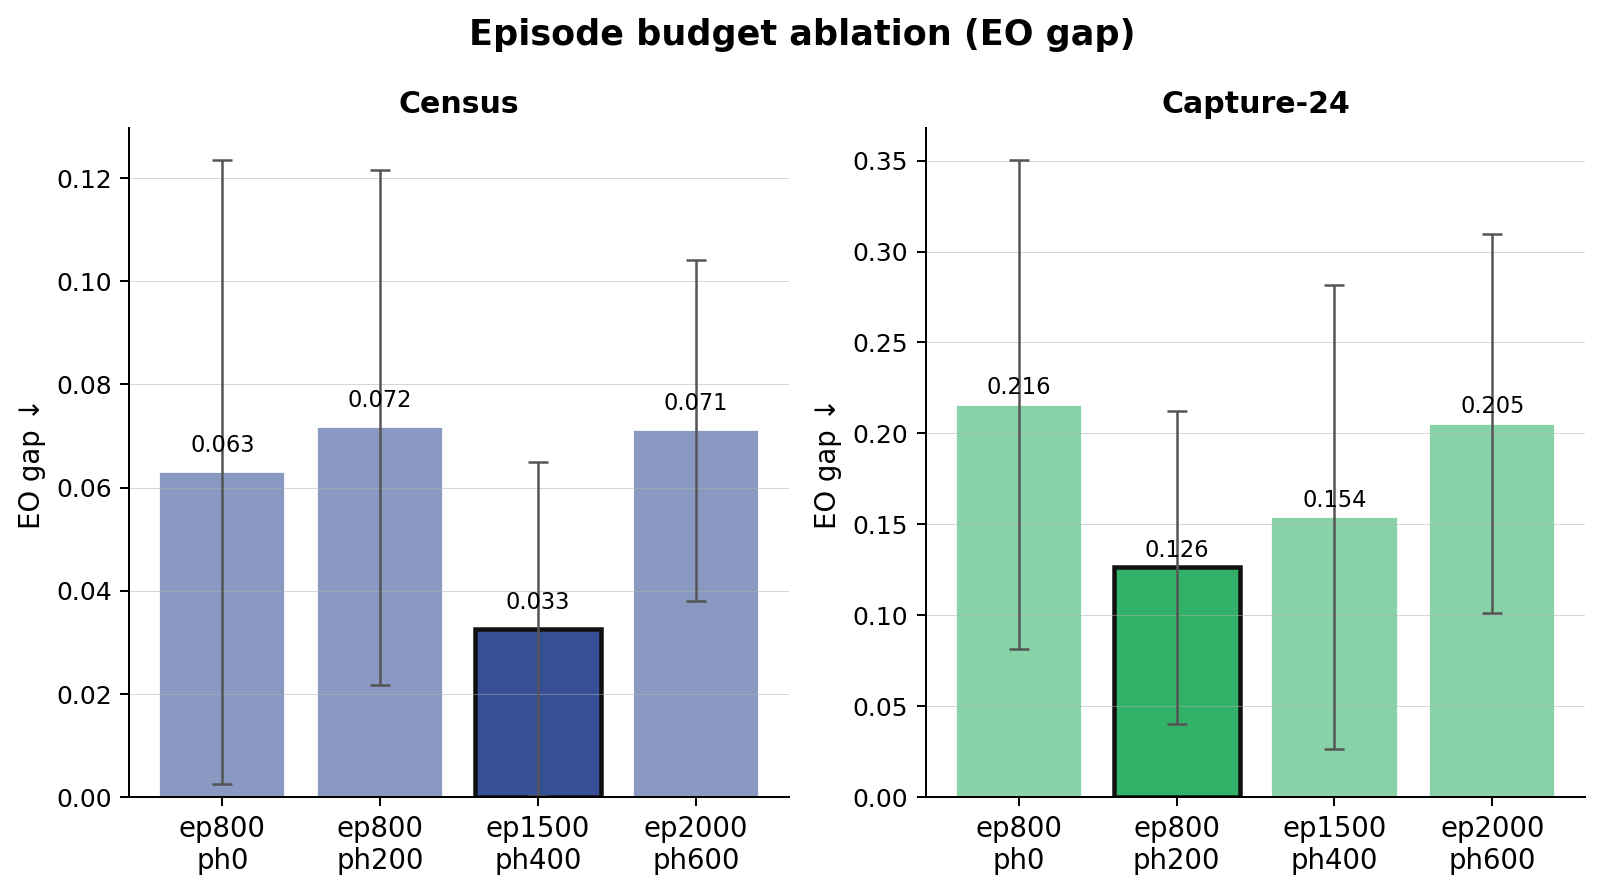
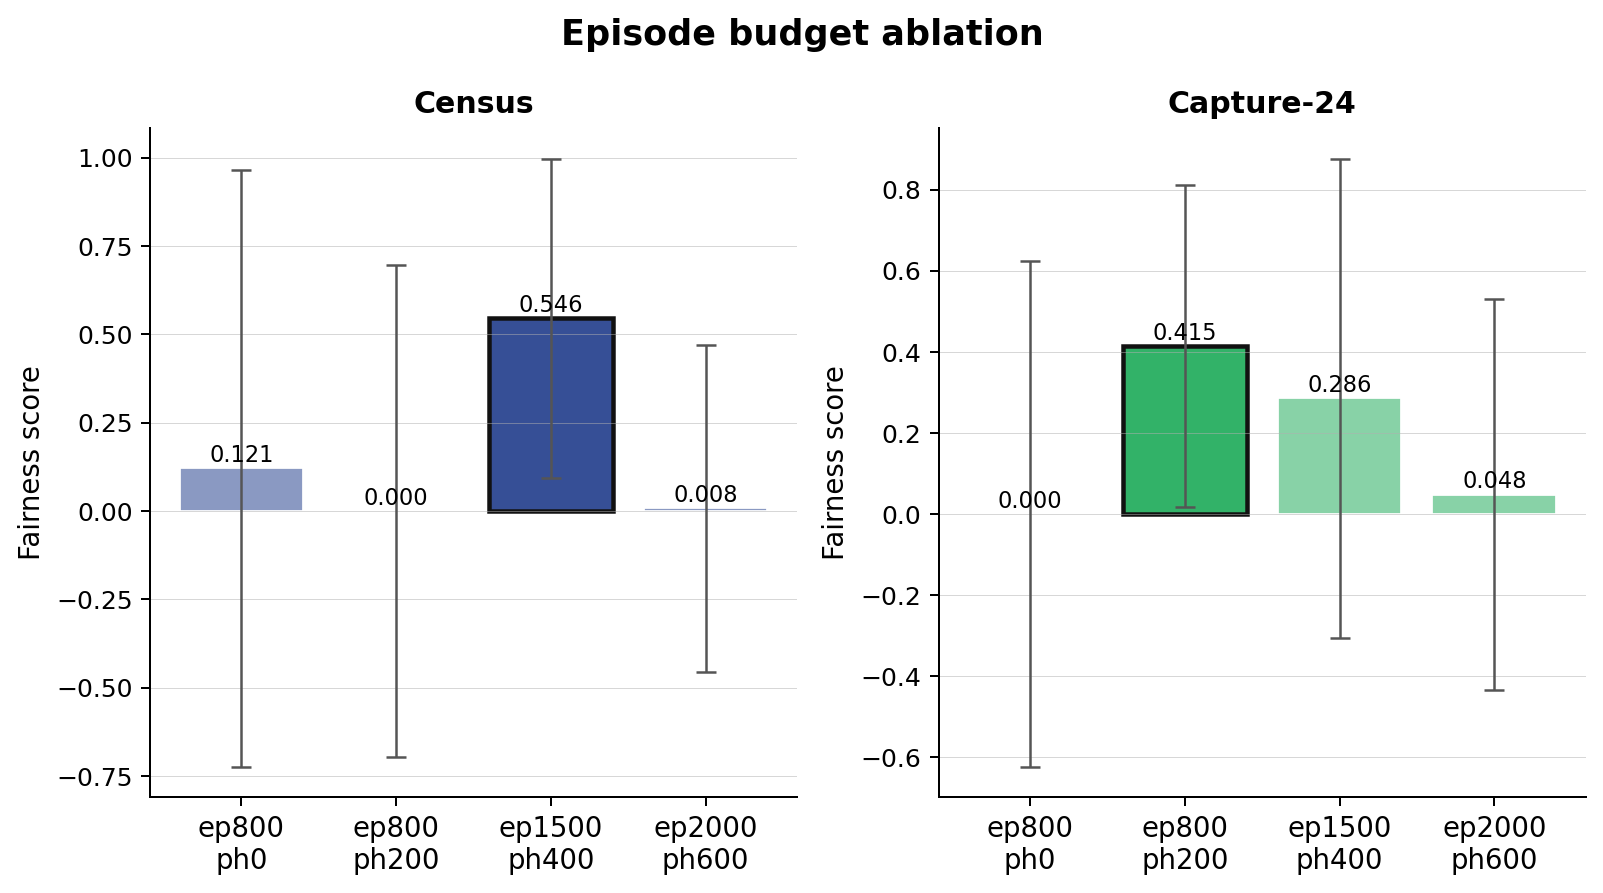
Update ablation figures to census-only with fairness score (FS) metric
- Add census-only (1-dataset) variants for all 5 ablation figures
- Apply x' = 1 - x/max(X) transformation: EO gap -> fairness score (higher = better)
- Remove "(EO gap)" from all ablation figure suptitles
- Remove y-axis direction arrow; y-label is now "Fairness score"
- Delta ablation: spell out "Delta scale" instead of Greek symbol
- FFNN ablation: spell out "Beta epochs" instead of symbol
- Episode census figure: show only ep1500 and ep2000, remove majority-recovery (ph) labels
- Journal_Paper_v5.tex: update table headers EO->FS, recompute all values with FS formula, update episode figure include to census-only, update ablation intro line

diff --git a/paper_figures_v3/generate_ablation_figures_v2.py b/paper_figures_v3/generate_ablation_figures_v2.py
@@ -33,6 +33,7 @@ EXPECTED_SEEDS = {
 DS_LABELS  = {"census": "Census", "compas": "COMPAS*", "capture24": "Capture-24"}
 DATASETS_3 = ["census", "compas", "capture24"]
 DATASETS_2 = ["census", "capture24"]
+DATASETS_1 = ["census"]
 
 DS_COLORS = {
     "census":    "#2b4590",
@@ -116,6 +117,16 @@ def get_auc(df): return stats(df, "beta_roc_auc")
 def get_alpha_eo(df): return stats(df, "alpha_eod_max_diff")
 
 
+def transform_eo(means, stds):
+    """Convert EO gap to fairness score: x' = 1 - x/max(X). Higher is better."""
+    means = np.array([float(m) for m in means])
+    stds  = np.array([float(s) for s in stds])
+    max_x = np.nanmax(means)
+    if max_x == 0:
+        return means.tolist(), stds.tolist()
+    return (1.0 - means / max_x).tolist(), (stds / max_x).tolist()
+
+
 def save_fig(name):
     paths = [os.path.join(OUT_DIR, name), os.path.join(FIG_DIR, name)]
     for p in paths:
@@ -124,7 +135,7 @@ def save_fig(name):
 
 
 def make_bar_ax(ax, labels, means, stds, colors, hatches=None,
-                ylabel="EO gap ↓", title="", fontsize_labels=11,
+                ylabel="Fairness score", title="", fontsize_labels=11,
                 fontsize_ticks=10, fontsize_title=12):
     x = np.arange(len(labels))
     bars = ax.bar(x, means, yerr=stds, capsize=4,
@@ -189,15 +200,27 @@ EP_KEYS = {
         ("capture24_ep2000ph600", "ep2000\nph600"),
     ],
 }
+# 2-bar census-only variant: ep1500 and ep2000 only, majority recovery labels removed
+EP_KEYS_2BAR = {
+    "census": [
+        ("census_ep1500ph400", "ep 1500"),
+        ("census_ep2000ph600", "ep 2000"),
+    ],
+}
 EP_PH_KEYS = ["ep800ph0", "ep800ph200", "ep1500ph400", "ep2000ph600"]
-EP_CHOSEN  = {"census": 2, "capture24": 1}
+EP_CHOSEN      = {"census": 2, "capture24": 1}
+EP_CHOSEN_2BAR = {"census": 0}
 
 
-def _make_ep_eo_fig(datasets, ncols, figsize, fname, show_compas_placeholder):
+def _make_ep_eo_fig(datasets, ncols, figsize, fname, show_compas_placeholder,
+                    ep_keys_override=None, ep_chosen_override=None):
     fig, axes = plt.subplots(1, ncols, figsize=figsize)
     if ncols == 1:
         axes = [axes]
-    fig.suptitle("Episode budget ablation (EO gap)", fontsize=14, fontweight="bold")
+    fig.suptitle("Episode budget ablation", fontsize=14, fontweight="bold")
+
+    ep_keys_use   = ep_keys_override   if ep_keys_override   is not None else EP_KEYS
+    ep_chosen_use = ep_chosen_override if ep_chosen_override is not None else EP_CHOSEN
 
     for ci, ds in enumerate(datasets):
         ax = axes[ci]
@@ -208,11 +231,11 @@ def _make_ep_eo_fig(datasets, ncols, figsize, fname, show_compas_placeholder):
 
         seeds  = EXPECTED_SEEDS[ds]
         col    = DS_COLORS[ds]
-        chosen = EP_CHOSEN.get(ds, 2)
+        chosen = ep_chosen_use.get(ds, 0)
 
         means, stds, labels = [], [], []
 
-        for ki, (key, lbl) in enumerate(EP_KEYS.get(ds, [])):
+        for ki, (key, lbl) in enumerate(ep_keys_use.get(ds, [])):
             if ds == "compas":
                 ph_key = EP_PH_KEYS[ki]
                 m, s = COMPAS_EP_PH[ph_key]["eo"]
@@ -226,14 +249,14 @@ def _make_ep_eo_fig(datasets, ncols, figsize, fname, show_compas_placeholder):
             means.append(m); stds.append(s); labels.append(lbl)
 
         if ds == "compas":
-            # Use placeholder EP_KEYS for COMPAS
             labels = ["ep800\nph0", "ep800\nph200", "ep1500\nph400", "ep2000\nph600"]
+
+        means, stds = transform_eo(means, stds)
 
         base_rgb = matplotlib.colors.to_rgb(col)
         colors = [base_rgb + (CHOSEN_ALPHA if i == chosen else OTHER_ALPHA,)
                   for i in range(len(labels))]
-        bars = make_bar_ax(ax, labels, means, stds, colors,
-                           ylabel="EO gap ↓", title=DS_LABELS[ds])
+        bars = make_bar_ax(ax, labels, means, stds, colors, title=DS_LABELS[ds])
         bars[chosen].set_edgecolor("#111111")
         bars[chosen].set_linewidth(1.8)
         label_bars(ax, bars, means)
@@ -254,6 +277,13 @@ _make_ep_eo_fig(DATASETS_3, 3, (13, 5),
 _make_ep_eo_fig(DATASETS_2, 2, (9, 5),
                 "fig_episode_ablation_eo_nodataset.png",
                 show_compas_placeholder=False)
+
+# 1-dataset (census only, ep1500 and ep2000 only)
+_make_ep_eo_fig(DATASETS_1, 1, (5, 5),
+                "fig_episode_ablation_census.png",
+                show_compas_placeholder=False,
+                ep_keys_override=EP_KEYS_2BAR,
+                ep_chosen_override=EP_CHOSEN_2BAR)
 
 
 # ─────────────────────────────────────────────────────────────────────────────
@@ -283,7 +313,7 @@ def _make_delta_fig(datasets, ncols, figsize, fname):
     fig, axes = plt.subplots(1, ncols, figsize=figsize)
     if ncols == 1:
         axes = [axes]
-    fig.suptitle("Delta scale ablation (EO gap)", fontsize=14, fontweight="bold")
+    fig.suptitle("Delta scale ablation", fontsize=14, fontweight="bold")
 
     for ci, ds in enumerate(datasets):
         seeds = EXPECTED_SEEDS[ds]
@@ -304,15 +334,16 @@ def _make_delta_fig(datasets, ncols, figsize, fname):
                     print(f"  MISSING: delta {lbl} {ds}")
             means.append(m); stds.append(s)
 
+        means, stds = transform_eo(means, stds)
+
         base_rgb = matplotlib.colors.to_rgb(col)
         colors   = [base_rgb + (CHOSEN_ALPHA if i == DELTA_CHOSEN else OTHER_ALPHA,)
                     for i in range(len(DELTA_LABELS))]
-        bars = make_bar_ax(ax, DELTA_LABELS, means, stds, colors,
-                           ylabel="EO gap ↓", title=DS_LABELS[ds])
+        bars = make_bar_ax(ax, DELTA_LABELS, means, stds, colors, title=DS_LABELS[ds])
         bars[DELTA_CHOSEN].set_edgecolor("#111111")
         bars[DELTA_CHOSEN].set_linewidth(1.8)
         label_bars(ax, bars, means)
-        ax.set_xlabel("δ scale", fontsize=11)
+        ax.set_xlabel("Delta scale", fontsize=11)
 
     if "compas" in datasets:
         pending_note(fig)
@@ -323,6 +354,7 @@ def _make_delta_fig(datasets, ncols, figsize, fname):
 
 _make_delta_fig(DATASETS_3, 3, (13, 5),   "fig_delta_ablation_v3_large.png")
 _make_delta_fig(DATASETS_2, 2, (9,  5),   "fig_delta_ablation_nodataset.png")
+_make_delta_fig(DATASETS_1, 1, (5,  5),   "fig_delta_ablation_census.png")
 
 
 # ─────────────────────────────────────────────────────────────────────────────
@@ -340,7 +372,7 @@ def _make_dvrl_fig(datasets, ncols, figsize, fname):
     fig, axes = plt.subplots(1, ncols, figsize=figsize)
     if ncols == 1:
         axes = [axes]
-    fig.suptitle("Global-only vs. local reward augmentation (EO gap)",
+    fig.suptitle("Global-only vs. local reward augmentation",
                  fontsize=14, fontweight="bold")
 
     for ci, ds in enumerate(datasets):
@@ -365,17 +397,14 @@ def _make_dvrl_fig(datasets, ncols, figsize, fname):
         means   = [g_eo[0], d_eo[0]]
         stds    = [g_eo[1], d_eo[1]]
 
+        means, stds = transform_eo(means, stds)
+
         base_rgb = matplotlib.colors.to_rgb(col)
         colors   = [base_rgb + (CHOSEN_ALPHA,), base_rgb + (OTHER_ALPHA,)]
-        bars = make_bar_ax(ax, labels, means, stds, colors,
-                           ylabel="EO gap ↓", title=DS_LABELS[ds])
+        bars = make_bar_ax(ax, labels, means, stds, colors, title=DS_LABELS[ds])
         bars[0].set_edgecolor("#111111")
         bars[0].set_linewidth(1.8)
         label_bars(ax, bars, means)
-
-        ax.axhline(a_eo[0], color="#777777", linestyle="--", linewidth=1.0,
-                   label=f"α-EO={a_eo[0]:.3f}")
-        ax.legend(fontsize=9, loc="upper right")
 
     if "compas" in datasets:
         pending_note(fig)
@@ -386,6 +415,7 @@ def _make_dvrl_fig(datasets, ncols, figsize, fname):
 
 _make_dvrl_fig(DATASETS_3, 3, (13, 5), "fig_dvrl_ablation_v3_large.png")
 _make_dvrl_fig(DATASETS_2, 2, (9,  5), "fig_dvrl_ablation_nodataset.png")
+_make_dvrl_fig(DATASETS_1, 1, (5,  5), "fig_dvrl_ablation_census.png")
 
 
 # ─────────────────────────────────────────────────────────────────────────────
@@ -415,7 +445,7 @@ def _make_pca_fig(datasets, ncols, figsize, fname):
     fig, axes = plt.subplots(1, ncols, figsize=figsize)
     if ncols == 1:
         axes = [axes]
-    fig.suptitle("PCA dimensionality ablation (EO gap)", fontsize=14, fontweight="bold")
+    fig.suptitle("PCA dimensionality ablation", fontsize=14, fontweight="bold")
 
     for ci, ds in enumerate(datasets):
         seeds  = EXPECTED_SEEDS[ds]
@@ -439,11 +469,12 @@ def _make_pca_fig(datasets, ncols, figsize, fname):
                     print(f"  MISSING: pca {key} {ds}")
                 means.append(m); stds.append(s); labels.append(lbl)
 
+        means, stds = transform_eo(means, stds)
+
         base_rgb = matplotlib.colors.to_rgb(col)
         colors   = [base_rgb + (CHOSEN_ALPHA if i == chosen else OTHER_ALPHA,)
                     for i in range(len(labels))]
-        bars = make_bar_ax(ax, labels, means, stds, colors,
-                           ylabel="EO gap ↓", title=DS_LABELS[ds])
+        bars = make_bar_ax(ax, labels, means, stds, colors, title=DS_LABELS[ds])
         bars[chosen].set_edgecolor("#111111")
         bars[chosen].set_linewidth(1.8)
         label_bars(ax, bars, means)
@@ -457,6 +488,7 @@ def _make_pca_fig(datasets, ncols, figsize, fname):
 
 _make_pca_fig(DATASETS_3, 3, (13, 5), "fig_pca_ablation_v3_large.png")
 _make_pca_fig(DATASETS_2, 2, (9,  5), "fig_pca_ablation_nodataset.png")
+_make_pca_fig(DATASETS_1, 1, (5,  5), "fig_pca_ablation_census.png")
 
 
 # ─────────────────────────────────────────────────────────────────────────────
@@ -484,7 +516,7 @@ def _make_ffnn_fig(datasets, ncols, figsize, fname):
     fig, axes = plt.subplots(1, ncols, figsize=figsize)
     if ncols == 1:
         axes = [axes]
-    fig.suptitle("Beta classifier training epochs ablation (EO gap)",
+    fig.suptitle("Beta classifier training epochs ablation",
                  fontsize=14, fontweight="bold")
 
     for ci, ds in enumerate(datasets):
@@ -508,15 +540,16 @@ def _make_ffnn_fig(datasets, ncols, figsize, fname):
                     print(f"  MISSING: ffnn {key} {ds}")
                 means.append(m); stds.append(s); labels.append(lbl)
 
+        means, stds = transform_eo(means, stds)
+
         base_rgb = matplotlib.colors.to_rgb(col)
         colors   = [base_rgb + (CHOSEN_ALPHA if i == FFNN_CHOSEN else OTHER_ALPHA,)
                     for i in range(len(labels))]
-        bars = make_bar_ax(ax, labels, means, stds, colors,
-                           ylabel="EO gap ↓", title=DS_LABELS[ds])
+        bars = make_bar_ax(ax, labels, means, stds, colors, title=DS_LABELS[ds])
         bars[FFNN_CHOSEN].set_edgecolor("#111111")
         bars[FFNN_CHOSEN].set_linewidth(1.8)
         label_bars(ax, bars, means)
-        ax.set_xlabel("β epochs", fontsize=11)
+        ax.set_xlabel("Beta epochs", fontsize=11)
 
     if "compas" in datasets:
         pending_note(fig)
@@ -527,6 +560,7 @@ def _make_ffnn_fig(datasets, ncols, figsize, fname):
 
 _make_ffnn_fig(DATASETS_3, 3, (13, 5), "fig_ffnn_ablation_v3_large.png")
 _make_ffnn_fig(DATASETS_2, 2, (9,  5), "fig_ffnn_ablation_nodataset.png")
+_make_ffnn_fig(DATASETS_1, 1, (5,  5), "fig_ffnn_ablation_census.png")
 
 
 print("\nAll enhanced ablation figures done.")
